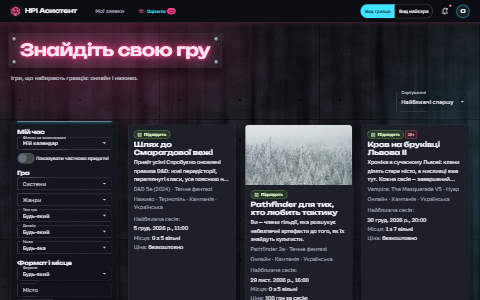
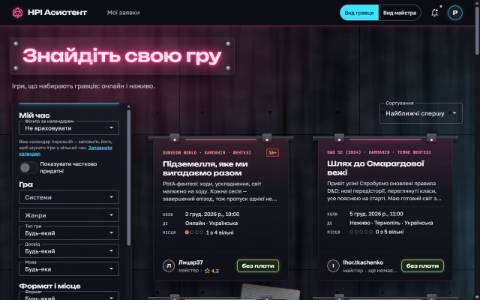
feat(frontend): cyber themes across the site and previews
Real search-page previews for neon-signs, holo-market and night-city (480x300,
like quest-board), site-wide audit screenshots of the three cyber designs,
QA checklist section for the four designs, Plan 9 backlog notes, and the
page-header spec finds the heading by role and accessible name again.

diff --git a/frontend/src/app/theming/themes/cyber/page-header/cyber-page-header.spec.ts b/frontend/src/app/theming/themes/cyber/page-header/cyber-page-header.spec.ts
@@ -41,7 +41,18 @@ describe('CyberPageHeader (slot «page-header»)', () => {
     await fixture.whenStable();
     fixture.detectChanges();
 
-    const h1 = (fixture.nativeElement as HTMLElement).querySelector('h1')!;
+    const host = fixture.nativeElement as HTMLElement;
+    // Як getByRole('heading', { name }): заголовок знаходиться за доступною назвою
+    // (aria-label, інакше текст) — і він один.
+    const headings = [
+      ...host.querySelectorAll<HTMLElement>('h1, h2, h3, h4, h5, h6, [role="heading"]'),
+    ];
+    const named = headings.filter(
+      (h) => (h.getAttribute('aria-label') ?? h.textContent!.trim()) === 'Знайдіть свою гру',
+    );
+    expect(named).toHaveLength(1);
+    const h1 = named[0]!;
+    expect(h1.tagName).toBe('H1');
     // Копіювання, пошук на сторінці, innerText — один раз, без зайвих пробілів між частинами.
     expect(h1.textContent!.trim()).toBe('Знайдіть свою гру');
     expect(h1.getAttribute('aria-label')).toBe('Знайдіть свою гру');

diff --git a/docs/superpowers/backlog.md b/docs/superpowers/backlog.md
@@ -133,3 +133,12 @@
   - Перший візит гостя: `theme-quest-board.css` вантажиться двічі (інлайн-`<link>` без `?v` і `?v=…` від ThemeService).
   - Версію стилів дизайну вписувати в `index.html` на збірці / хешувати зібрані `theme-*.css` після білда (прибирає `?v`-less URL першого візиту, подвійне завантаження та сліпі зони хешування в `gen-runtime-config.mjs`).
   - Після зміни дизайну оболонка перемонтовується — переносити фокус на основний вміст.
+
+## Після Плану 9
+
+- **Шість нових дизайнів (План 10):** painterly-undercity, steampunk, solarpunk, grimdark-gothic, dungeon-crawl, magicpunk — макети в `docs/design-concepts/themes2/`.
+- **Відкладені дрібниці кібер-дизайнів:**
+  - «Голо-ринок»: зрізані кути сторінок/панелей зроблено `clip-path` — на діагоналях немає межі й тіні панелі. Перевірено (аудит Task 5): вміст, кільця фокусу й спливні елементи не обрізаються (оверлеї Material — поза сторінкою). Якщо колись захочеться межі на діагоналях — малювати кути маскою/псевдоелементами, а `clip-path` лишити на `.cy-glass`.
+  - Екран бану й форма апеляції в кібер-дизайнах недосяжні: заблокований не входить, а гість завжди бачить «Дошку». Якщо апеляція з'явиться для входу з дизайном — перевірити.
+  - Аудит RF4 — ручний (скріншоти `docs/design-concepts/cyber/audit/`); автоматичної перевірки «світлих плям» і контрасту в e2e немає.
+  - Список нативного `<select>` малює браузер: фон/текст варіантів задано явно (`cyber-base.less`), але вигляд самого списку залежить від ОС.

diff --git a/docs/QA-features.md b/docs/QA-features.md
@@ -92,3 +92,11 @@
 - [ ] Мобільна версія (вузький екран) — усі основні сторінки
 - [ ] Сторінка «Про сервіс», SEO: sitemap, відкриття сторінки гри напряму
 - [ ] Неіснуюча адреса → сторінка 404 «Сторінку не знайдено» (адреса в рядку лишається, `noindex`, кнопка «До пошуку ігор»)
+
+## 14. Дизайни на вибір
+- [ ] «Вигляд» у налаштуваннях акаунта — чотири дизайни для будь-якого користувача (не лише персоналу): «Дошка оголошень», «Неонові вивіски», «Голо-ринок», «Нічне місто»; «Класичного» більше немає
+- [ ] Вибір застосовується одразу, без перезавантаження, і зберігається після перезавантаження та на іншому пристрої
+- [ ] Гість завжди бачить «Дошку оголошень» (навіть якщо раніше в цьому браузері був кібер-дизайн)
+- [ ] Збережений колись «Класичний» → «Дошка оголошень», без помилок завантаження стилів
+- [ ] Кожен кібер-дизайн, desktop і мобільна: усі сторінки й вкладки `/admin` темні, без світлих плям; поля з межами; меню, діалоги, календар-вибір дати, автодоповнення, список нативного вибору, сповіщення, банер обмежень читабельні
+- [ ] У мережевій панелі — лише бандл стилів обраного дизайну
